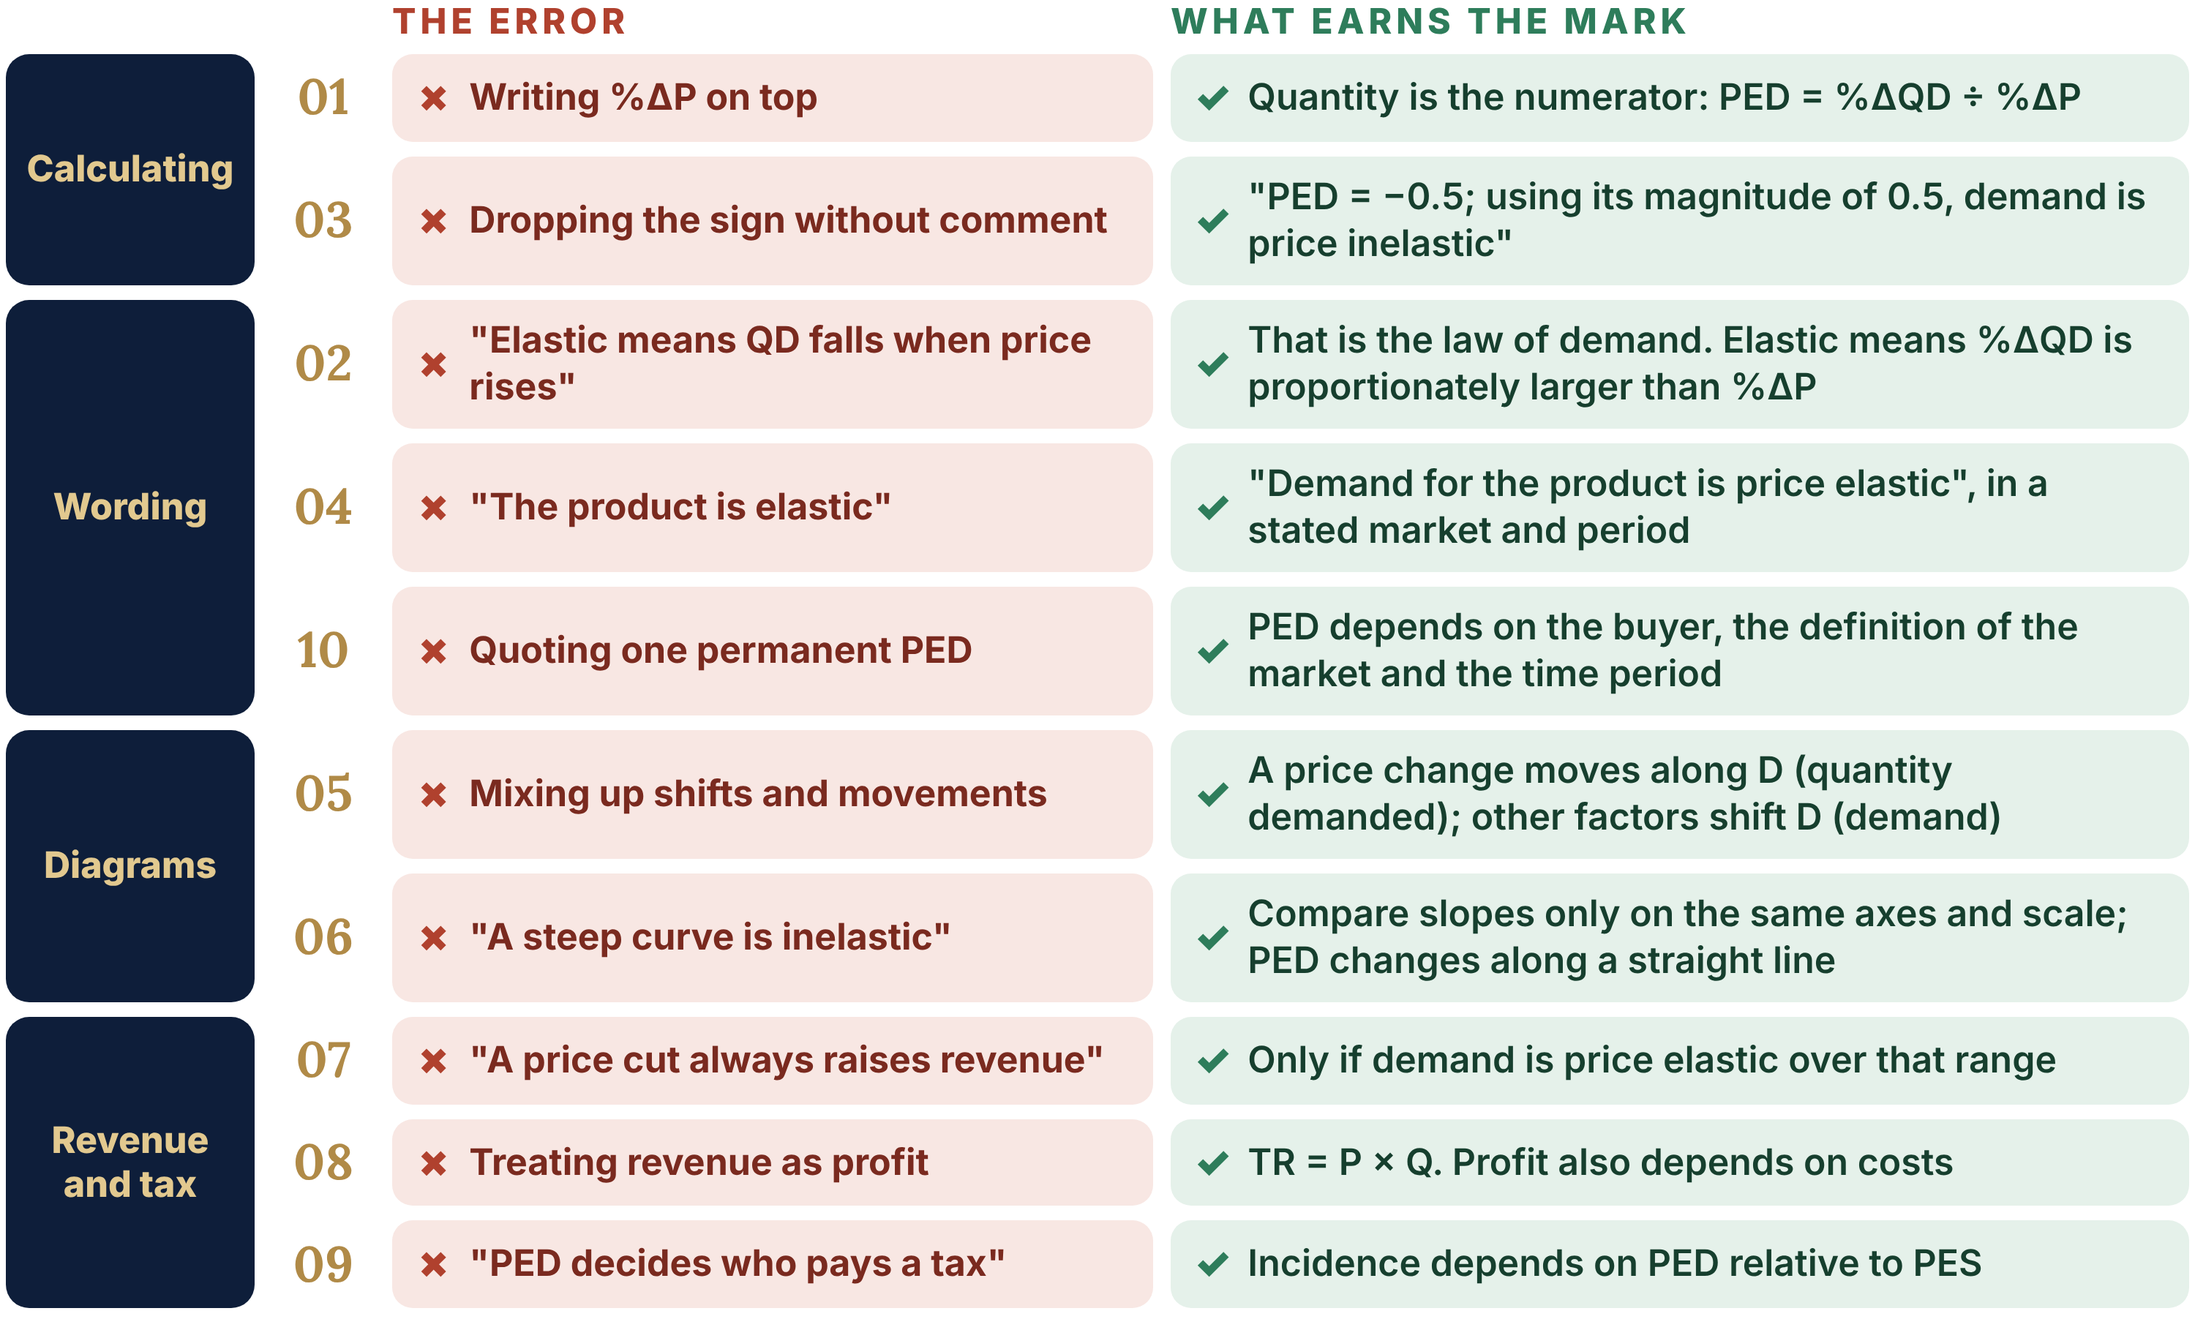
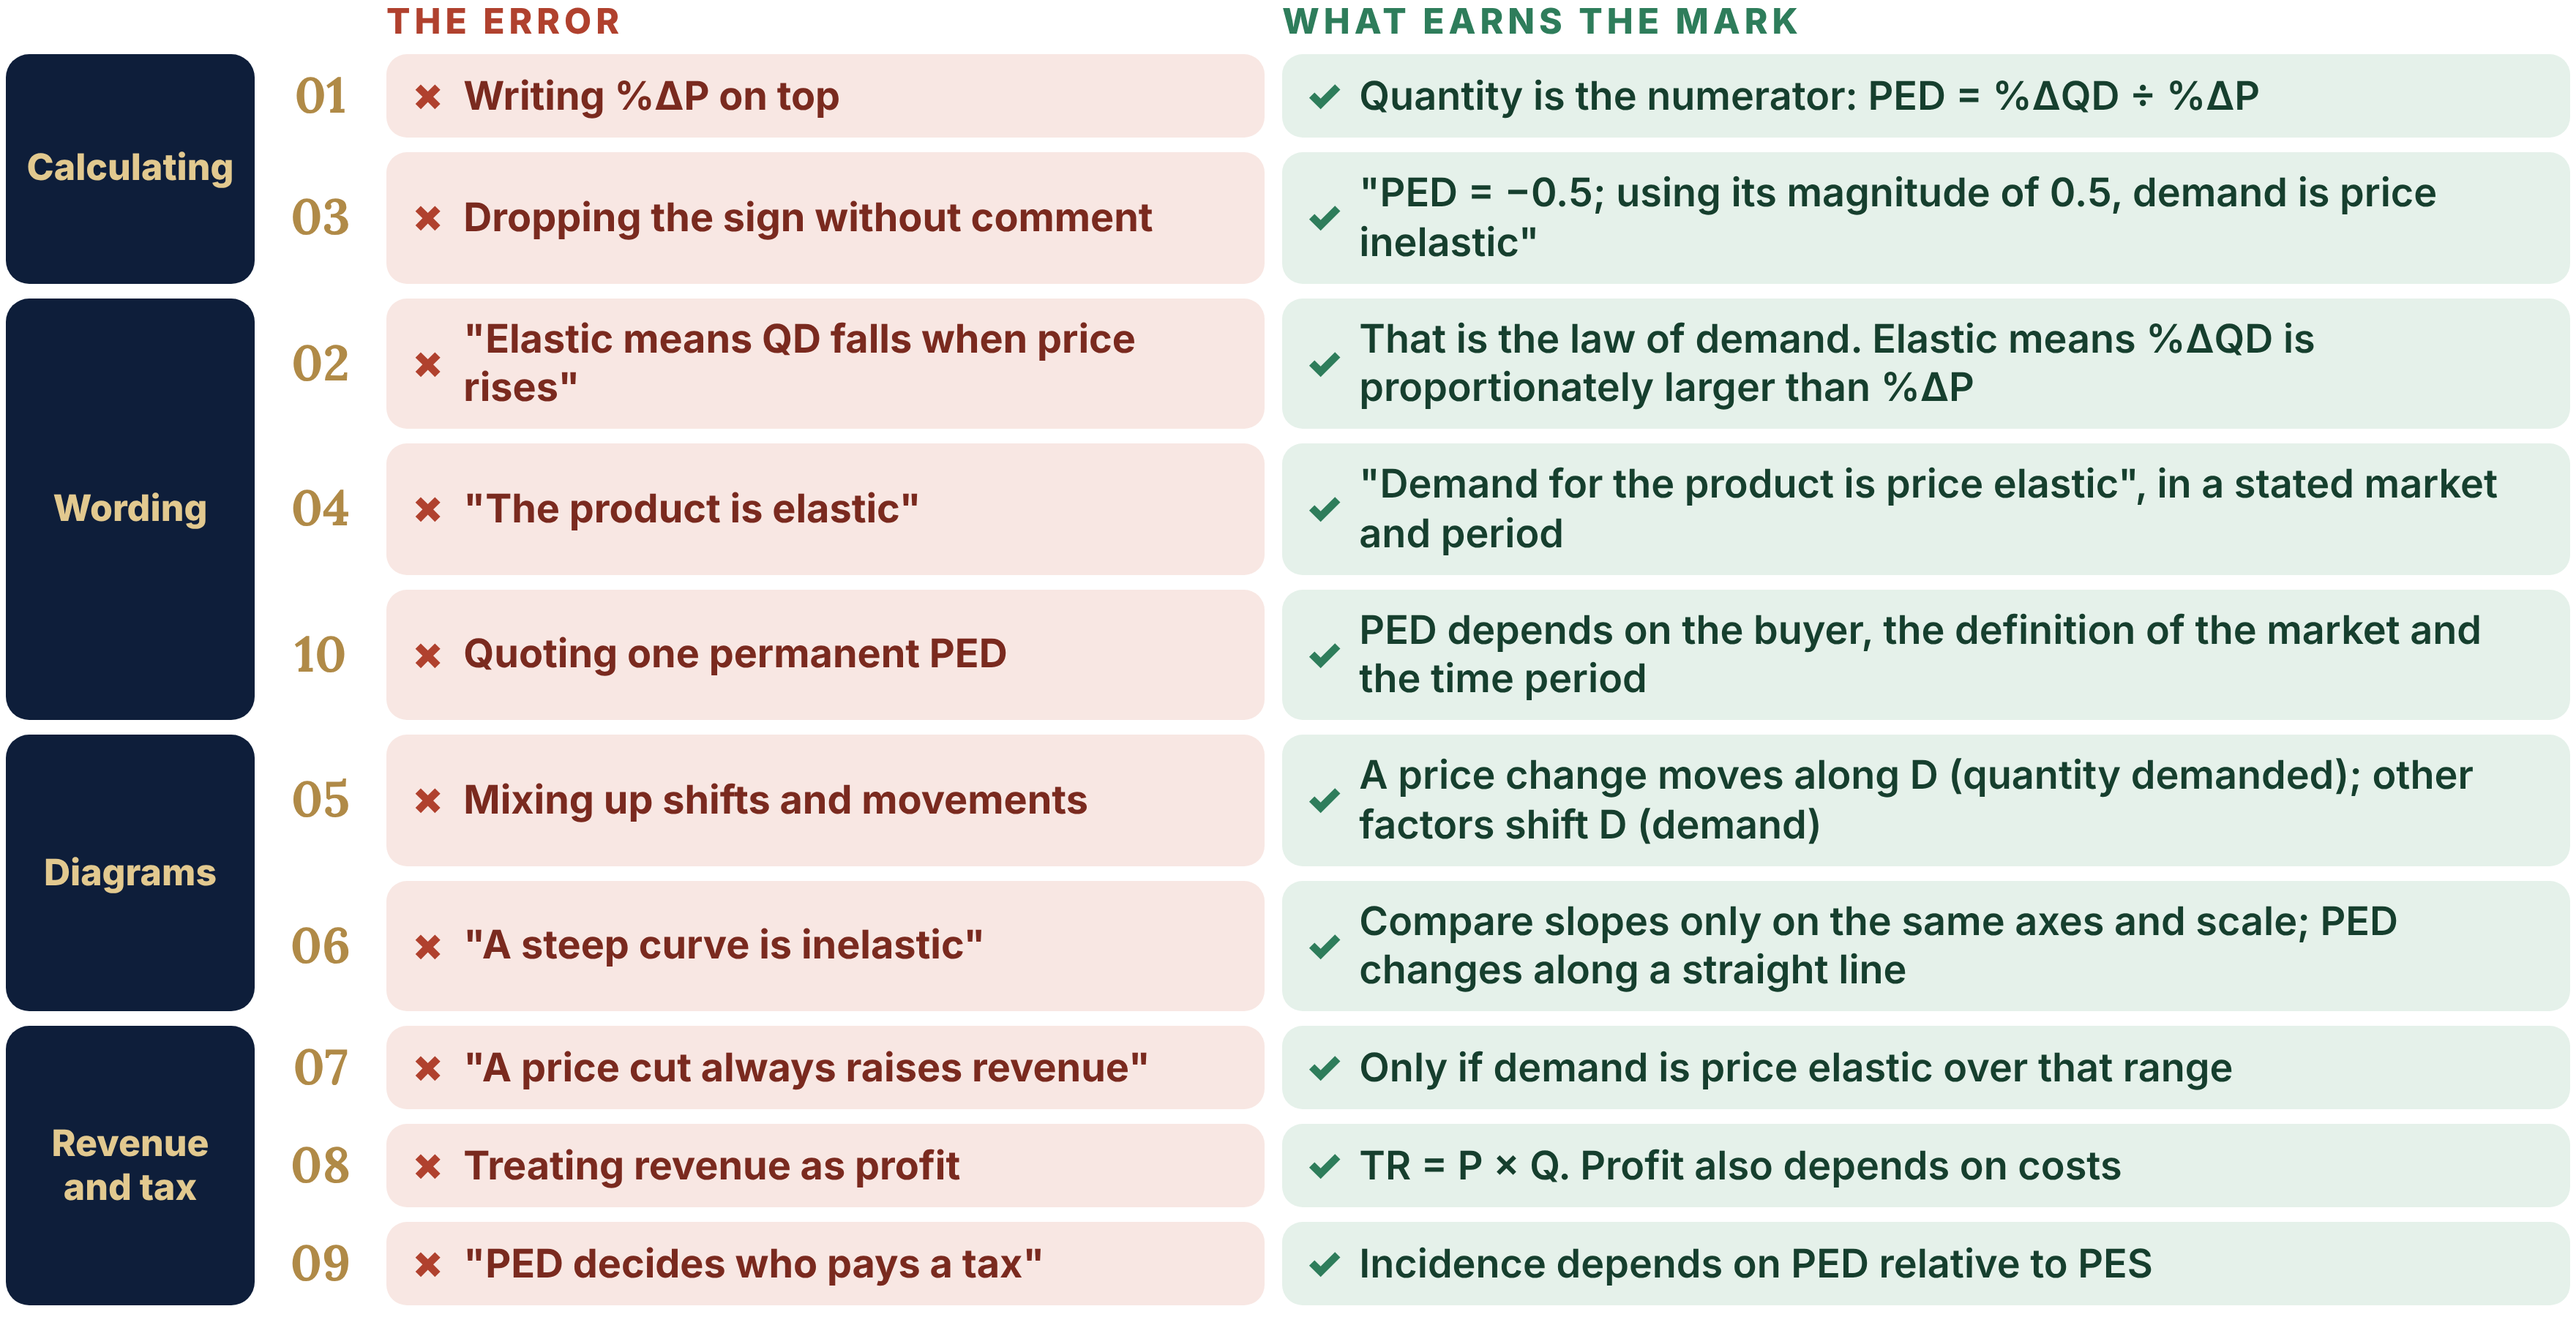
PED v2: wider errors and revision-map infographics
Claude-Session: https://claude.ai/code/session_01MSjoDEi4PQwuBrycntYQFe

Changed region(s): [[0.0, 0.0, 1.0, 0.9956]]

diff --git a/presentation-assets/price-elasticity-of-demand/v2/source/PED_28_Revision_Map.html b/presentation-assets/price-elasticity-of-demand/v2/source/PED_28_Revision_Map.html
@@ -1,4 +1,4 @@
-<!doctype html><html data-size="1500x900"><head><meta charset="utf-8"><style>
+<!doctype html><html data-size="1760x900"><head><meta charset="utf-8"><style>
 *{box-sizing:border-box;margin:0;padding:0}
 html,body{background:transparent}
 body{position:relative;font-family:Inter,'Helvetica Neue',Arial,sans-serif;color:#0E1E3A}
@@ -6,23 +6,23 @@ body{position:relative;font-family:Inter,'Helvetica Neue',Arial,sans-serif;color
 .k{font-weight:800;letter-spacing:3px;text-transform:uppercase}
 .muted{color:#5B6577}.gold{color:#8A6A2E}.app{color:#2E7D5B}.dep{color:#B0412E}
 svg.links{position:absolute;left:0;top:0;pointer-events:none;overflow:visible}
-body{width:1500px;height:900px}
-.cl{position:absolute;width:400px}
+body{width:1760px;height:900px}
+.cl{position:absolute;width:470px}
 .ch{display:flex;align-items:baseline;justify-content:space-between;gap:10px;background:#1B3460;color:#fff;border-radius:16px;padding:10px 18px;margin-bottom:8px}
-.cn{font-size:29px;font-weight:800}
+.cn{font-size:31px;font-weight:800}
 .cs{font-size:21px;font-weight:700;color:#E2C98F;white-space:nowrap}
-.lf{font-size:25px;line-height:1.25;padding:5px 4px 5px 18px;border-left:5px solid #E2D6BC;margin-left:12px;color:#22304A}
+.lf{font-size:27px;line-height:1.25;padding:5px 4px 5px 18px;border-left:5px solid #E2D6BC;margin-left:12px;color:#22304A}
 #c1{left:10px;top:10px}#c2{left:10px;top:315px}#c3{left:10px;top:620px}
-#c4{left:1090px;top:10px}#c5{left:1090px;top:315px}#c6{left:1090px;top:620px}
-#c7{left:550px;top:600px}
+#c4{left:1280px;top:10px}#c5{left:1280px;top:315px}#c6{left:1280px;top:620px}
+#c7{left:645px;top:600px}
 #c7 .ch{background:#B0412E}
-.hub{position:absolute;left:530px;top:290px;width:440px;height:250px;border-radius:125px;background:#0E1E3A;border:7px solid #B08A47;color:#fff;
+.hub{position:absolute;left:640px;top:290px;width:480px;height:250px;border-radius:125px;background:#0E1E3A;border:7px solid #B08A47;color:#fff;
      display:flex;flex-direction:column;align-items:center;justify-content:center;text-align:center;padding:10px 30px}
 .hk{font-size:19px;color:#E2C98F}
 .ht{font-size:40px;font-weight:700;line-height:1.1;margin:8px 0}
 .hf{font-size:26px;font-weight:700;color:#E2C98F}
-.foot{position:absolute;left:500px;top:858px;width:500px;text-align:center;font-size:21px;color:#5B6577}
-.key{position:absolute;left:560px;top:40px;width:380px;border:3px dashed #D9CCB0;border-radius:20px;padding:16px 20px;text-align:center}
+.foot{position:absolute;left:630px;top:858px;width:500px;text-align:center;font-size:21px;color:#5B6577}
+.key{position:absolute;left:690px;top:40px;width:380px;border:3px dashed #D9CCB0;border-radius:20px;padding:16px 20px;text-align:center}
 .kk2{font-size:19px;color:#8A6A2E;margin-bottom:8px}
 .kf{font-size:30px;font-weight:800;margin:4px 0}
 </style>
@@ -35,7 +35,7 @@ function arrowDefs(svg,col,id){svg.insertAdjacentHTML('beforeend',`<defs><marker
 <div class="hub" id="hub"><div class="hk k">IB 2.5 · SL and HL</div><div class="ht serif">Price elasticity of demand</div><div class="hf">PED = %ΔQD ÷ %ΔP</div></div>
 <div class="key"><div class="kk2 k">Key relationships</div><div class="kf">%ΔQD = PED × %ΔP</div><div class="kf">TR = P × Q</div></div>
 <div class="foot">Numbers in each branch show the slides to revisit.</div>
-<svg class="links" id="lk" width="1500" height="900"></svg>
+<svg class="links" id="lk" width="1760" height="900"></svg>
 <script>
 const s=document.getElementById('lk');const H=c(document.getElementById('hub'));
 const rx=(H.r-H.l)/2, ry=(H.b-H.t)/2;

diff --git a/presentation-assets/price-elasticity-of-demand/v2/source/PED_27_Errors.html b/presentation-assets/price-elasticity-of-demand/v2/source/PED_27_Errors.html
@@ -1,4 +1,4 @@
-<!doctype html><html data-size="1500x1000"><head><meta charset="utf-8"><style>
+<!doctype html><html data-size="1760x900"><head><meta charset="utf-8"><style>
 *{box-sizing:border-box;margin:0;padding:0}
 html,body{background:transparent}
 body{position:relative;font-family:Inter,'Helvetica Neue',Arial,sans-serif;color:#0E1E3A}
@@ -6,14 +6,14 @@ body{position:relative;font-family:Inter,'Helvetica Neue',Arial,sans-serif;color
 .k{font-weight:800;letter-spacing:3px;text-transform:uppercase}
 .muted{color:#5B6577}.gold{color:#8A6A2E}.app{color:#2E7D5B}.dep{color:#B0412E}
 svg.links{position:absolute;left:0;top:0;pointer-events:none;overflow:visible}
-body{width:1500px;height:1000px}
-.hdr,.tb{position:relative;display:grid;grid-template-columns:170px 70px 520px 1fr;column-gap:12px;margin:0 4px}
+body{width:1760px;height:900px}
+.hdr,.tb{position:relative;display:grid;grid-template-columns:170px 66px 600px 1fr;column-gap:12px;margin:0 4px}
 .hdr{margin-bottom:8px}
 .h1,.h2{font-size:24px;font-weight:800;letter-spacing:3px;text-transform:uppercase}
 .tb{row-gap:10px}
 .cat{display:flex;align-items:center;justify-content:center;background:#0E1E3A;border-radius:16px;color:#E2C98F;font-size:25px;font-weight:800;text-align:center;padding:8px;line-height:1.2}
 .no{font-family:Lora,Georgia,serif;font-size:34px;font-weight:700;color:#B08A47;display:flex;align-items:center;justify-content:center}
-.er,.fx{font-size:25px;line-height:1.28;border-radius:14px;padding:12px 16px;display:flex;align-items:center;gap:12px}
+.er,.fx{font-size:27px;line-height:1.25;border-radius:14px;padding:11px 16px;display:flex;align-items:center;gap:12px}
 .er{background:#F8E7E3;color:#7A2A1F;font-weight:700}
 .fx{background:#E5F1EA;color:#163F2E;font-weight:600}
 .x{font-size:28px;color:#B0412E;font-weight:900;flex:none}

diff --git a/presentation-assets/price-elasticity-of-demand/v2/source/build_ped_html_v2.py b/presentation-assets/price-elasticity-of-demand/v2/source/build_ped_html_v2.py
@@ -302,14 +302,14 @@ body = f"""
 <div class="hdr"><div></div><div></div><div class="h1 dep">The error</div><div class="h2 app">What earns the mark</div></div>
 <div class="tb">{''.join(html_rows)}</div>
 """
-page("PED_27_Errors", 1500, 1000, body, """
-.hdr,.tb{position:relative;display:grid;grid-template-columns:170px 70px 520px 1fr;column-gap:12px;margin:0 4px}
+page("PED_27_Errors", 1760, 900, body, """
+.hdr,.tb{position:relative;display:grid;grid-template-columns:170px 66px 600px 1fr;column-gap:12px;margin:0 4px}
 .hdr{margin-bottom:8px}
 .h1,.h2{font-size:24px;font-weight:800;letter-spacing:3px;text-transform:uppercase}
 .tb{row-gap:10px}
 .cat{display:flex;align-items:center;justify-content:center;background:#0E1E3A;border-radius:16px;color:#E2C98F;font-size:25px;font-weight:800;text-align:center;padding:8px;line-height:1.2}
 .no{font-family:Lora,Georgia,serif;font-size:34px;font-weight:700;color:#B08A47;display:flex;align-items:center;justify-content:center}
-.er,.fx{font-size:25px;line-height:1.28;border-radius:14px;padding:12px 16px;display:flex;align-items:center;gap:12px}
+.er,.fx{font-size:27px;line-height:1.25;border-radius:14px;padding:11px 16px;display:flex;align-items:center;gap:12px}
 .er{background:#F8E7E3;color:#7A2A1F;font-weight:700}
 .fx{background:#E5F1EA;color:#163F2E;font-weight:600}
 .x{font-size:28px;color:#B0412E;font-weight:900;flex:none}
@@ -335,7 +335,7 @@ body = f"""
 <div class="hub" id="hub"><div class="hk k">IB 2.5 · SL and HL</div><div class="ht serif">Price elasticity of demand</div><div class="hf">PED = %ΔQD ÷ %ΔP</div></div>
 <div class="key"><div class="kk2 k">Key relationships</div><div class="kf">%ΔQD = PED × %ΔP</div><div class="kf">TR = P × Q</div></div>
 <div class="foot">Numbers in each branch show the slides to revisit.</div>
-<svg class="links" id="lk" width="1500" height="900"></svg>
+<svg class="links" id="lk" width="1760" height="900"></svg>
 """
 script = """
 const s=document.getElementById('lk');const H=c(document.getElementById('hub'));
@@ -349,23 +349,23 @@ for(const id of ['c1','c2','c3','c4','c5','c6','c7']){const h=c(document.getElem
   s.insertAdjacentHTML('beforeend',`<path d="${d}" fill="none" stroke="#B08A47" stroke-width="6" stroke-linecap="round"/>`);
   s.insertAdjacentHTML('beforeend',`<circle cx="${x2}" cy="${y2}" r="8" fill="#B08A47"/>`);}
 """
-page("PED_28_Revision_Map", 1500, 900, body, """
-.cl{position:absolute;width:400px}
+page("PED_28_Revision_Map", 1760, 900, body, """
+.cl{position:absolute;width:470px}
 .ch{display:flex;align-items:baseline;justify-content:space-between;gap:10px;background:#1B3460;color:#fff;border-radius:16px;padding:10px 18px;margin-bottom:8px}
-.cn{font-size:29px;font-weight:800}
+.cn{font-size:31px;font-weight:800}
 .cs{font-size:21px;font-weight:700;color:#E2C98F;white-space:nowrap}
-.lf{font-size:25px;line-height:1.25;padding:5px 4px 5px 18px;border-left:5px solid #E2D6BC;margin-left:12px;color:#22304A}
+.lf{font-size:27px;line-height:1.25;padding:5px 4px 5px 18px;border-left:5px solid #E2D6BC;margin-left:12px;color:#22304A}
 #c1{left:10px;top:10px}#c2{left:10px;top:315px}#c3{left:10px;top:620px}
-#c4{left:1090px;top:10px}#c5{left:1090px;top:315px}#c6{left:1090px;top:620px}
-#c7{left:550px;top:600px}
+#c4{left:1280px;top:10px}#c5{left:1280px;top:315px}#c6{left:1280px;top:620px}
+#c7{left:645px;top:600px}
 #c7 .ch{background:#B0412E}
-.hub{position:absolute;left:530px;top:290px;width:440px;height:250px;border-radius:125px;background:#0E1E3A;border:7px solid #B08A47;color:#fff;
+.hub{position:absolute;left:640px;top:290px;width:480px;height:250px;border-radius:125px;background:#0E1E3A;border:7px solid #B08A47;color:#fff;
      display:flex;flex-direction:column;align-items:center;justify-content:center;text-align:center;padding:10px 30px}
 .hk{font-size:19px;color:#E2C98F}
 .ht{font-size:40px;font-weight:700;line-height:1.1;margin:8px 0}
 .hf{font-size:26px;font-weight:700;color:#E2C98F}
-.foot{position:absolute;left:500px;top:858px;width:500px;text-align:center;font-size:21px;color:#5B6577}
-.key{position:absolute;left:560px;top:40px;width:380px;border:3px dashed #D9CCB0;border-radius:20px;padding:16px 20px;text-align:center}
+.foot{position:absolute;left:630px;top:858px;width:500px;text-align:center;font-size:21px;color:#5B6577}
+.key{position:absolute;left:690px;top:40px;width:380px;border:3px dashed #D9CCB0;border-radius:20px;padding:16px 20px;text-align:center}
 .kk2{font-size:19px;color:#8A6A2E;margin-bottom:8px}
 .kf{font-size:30px;font-weight:800;margin:4px 0}
 """, script)
